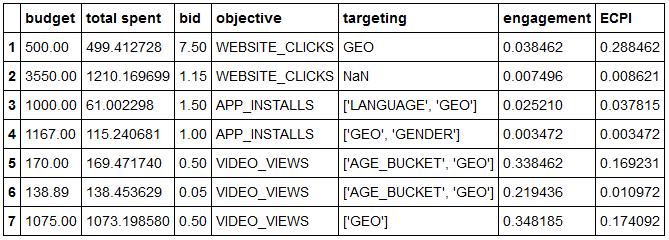
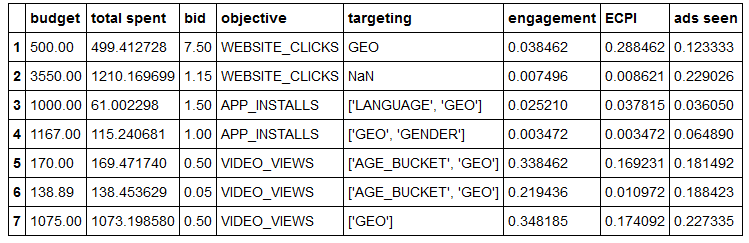
Add more discussion

diff --git a/README.md b/README.md
@@ -14,6 +14,8 @@ And here is a table of information about each campaign:
 
 <div align="center"><img src="Images/campaign info.png" alt="Campaign info"></div>
 
+'ads seen' refers to the probability the ad will be seen, conditional on it being served.  'ECPI' refers to the expected revenue conditional on the ad being served and seen.
+
 Campaign 1 is the fastest spender on the list, but stops after a few hours because it has reached its maximum budget.  By comparison, campaign 2 spends more slowly, and never reaches its max.  If we look at the campaign parameters, this makes sense.  Campaign 1 has a much higher bid and lower maximum budget, as well as higher engagement rate.  They're going to win a lot of auctions that way.
 
 If I were to give advice to Campaigns 1 and 2, this is what I'd say:
@@ -24,6 +26,24 @@ If I were to give advice to Campaigns 1 and 2, this is what I'd say:
 
 Other thoughts on the curves:
 
-- Campaign 2 seems to spend less around hour 20 (3 am UTC).  From this, I would guess that they're getting ads served to western Europe?  Maybe that's the least competitive market?
+- Campaign 2 seems to spend less around hour 20 (3 am UTC).  From this, I would guess that they're getting ads served to western Europe or Africa?  Maybe that's the least competitive market?
 
 - It is strange to me that Campaign 1 has a logistic shape instead of being more linear.  Is it due to variation throughout the day?  Or does Twitter dynamically lower their bid as they approach their maximum budget?  And does the acceleration at the beginning indicate Twitter's algorithm becoming more optimistic about the campaign over time?
+
+# Discussion of campaign pacing
+
+**Objectives** - Campaigns that seek to get video views have a much higher engagement rate than the others, by about a factor of 10.  Accordingly, their bid is about 10 times smaller, so they can compete in the same market.
+
+**Pacing** - Most campaigns seem to spend almost all their budget, or very little of it.  There is likely some tipping point where their bid is high enough that they start winning a large number of auctions.
+
+**ECPI** - Campaigns with a higher ECPI seem to be more successful, but it isn't completely determinative.  Well, maybe Campaign 3 simply hasn't been charged much because it started late in the day.  Come to think of it, this isn't the real ECPI, because we're only looking at data from auctions they actually won.  That's a hell of a selection bias.
+
+**Targeting** - I don't really expect pacing to be related to targeting.  For example, if you were to look at men and women, either men are the more competitive market, or women are, and if a client wants to target a particular gender, I wouldn't know if they're participating in a more or less competitive market without knowing *which* gender they're targeting.  Granted, clients probably are most likely to go to the more crowded market, that's why it's crowded.
+
+**Ads seen** - For some reason, a greater percentage of ads targeting video views or website clicks actually get seen by the user.  This is a bit strange, and maybe there's something about the mechanics of "seeing" ads that I'm missing.  On the other hand, maybe Twitter's algorithm simply finds that app downloads are relatively more successful among Twitter users who scroll down a lot.  So apps are more likely to win auctions that are further down the feed.
+
+# My experience with this project
+
+It's fun to explore the data in this way.  Some of my observations suggest potentially interesting trends (e.g. are apps more successful among heavy Twitter users?), and others suggest potentially useful actions (e.g. should Twitter advise people to decrease their bids, or does that go against Twitter's interests?).
+
+I was a little confused at first about the definition of "engagement rate".  Since I was just looking at the spend rate (over time!) I thought engagement rate was also over time, and I already made several plots before I realized that must be wrong.  Making plots that look nice is easily the most time-consuming aspect.
